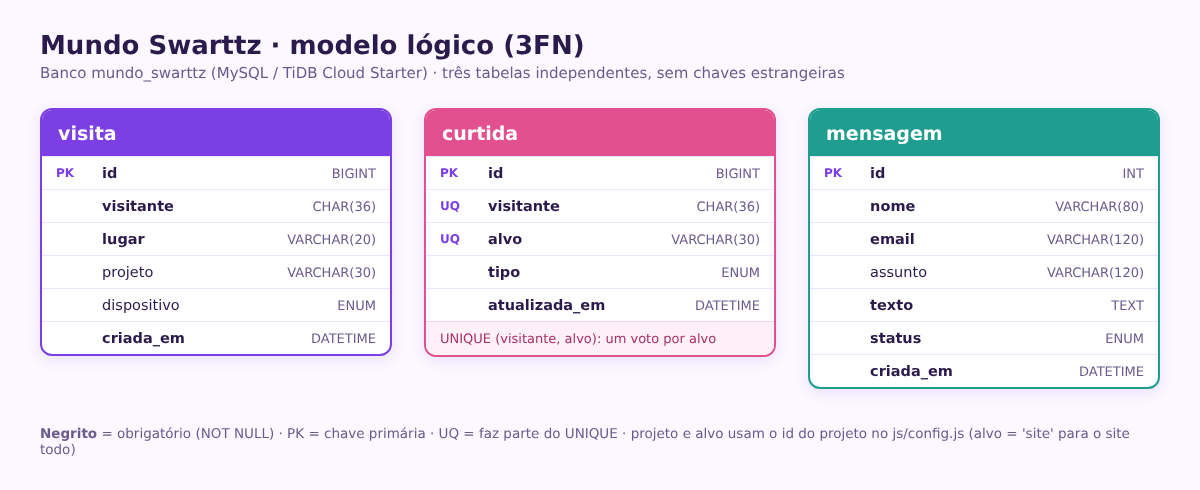
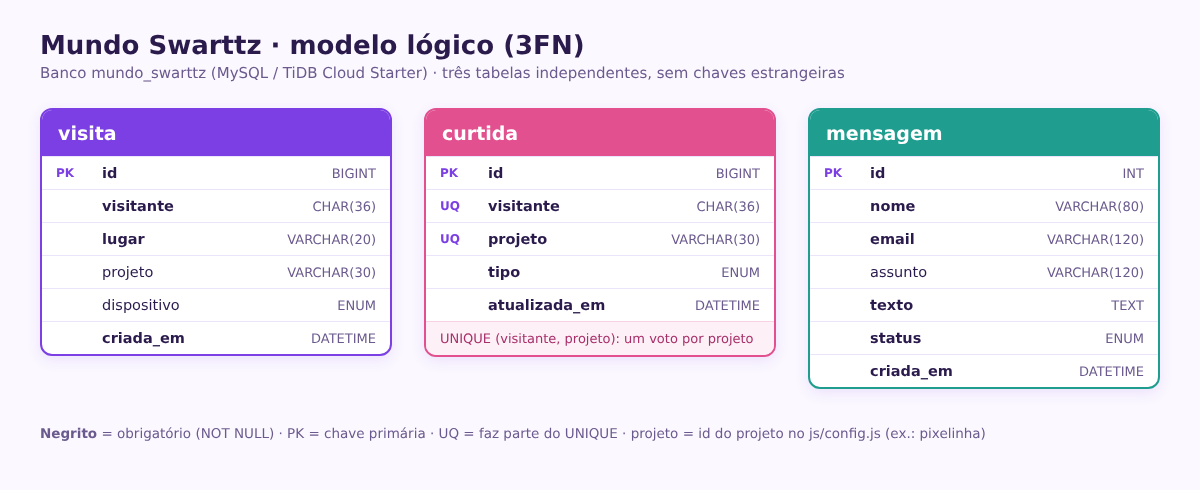
fix: keep likes on portfolio projects only
Drops the site-wide vote: curtida.alvo becomes curtida.projeto, with UNIQUE (visitante, projeto).

diff --git a/database/normalizacao.md b/database/normalizacao.md
@@ -14,7 +14,7 @@ O modelo tem três tabelas: `visita`, `curtida` e `mensagem` (detalhe de cada co
 | Tabela | Chave primária | Alguma coluna com lista de valores? |
 |---|---|---|
 | visita | `id` | Não. Cada visita tem um lugar, no máximo um projeto e um dispositivo. |
-| curtida | `id` | Não. Cada voto tem um alvo e um tipo. |
+| curtida | `id` | Não. Cada voto tem um projeto e um tipo. |
 | mensagem | `id` | Não. Cada mensagem tem um remetente, um e-mail e um texto. |
 
 As três tabelas estão na 1FN.
@@ -23,14 +23,14 @@ As três tabelas estão na 1FN.
 
 A 2FN só pode ser violada em tabelas com **chave primária composta**. As três tabelas usam um `id` simples como chave, então nenhuma coluna pode depender "só de um pedaço" dela. As três estão na 2FN.
 
-A regra de um voto por visitante em cada alvo, em `curtida`, é garantida com `UNIQUE (visitante, alvo)`, e não com uma chave primária composta. Assim a tabela mantém o `id` simples, e a regra continua valendo.
+A regra de um voto por visitante em cada projeto, em `curtida`, é garantida com `UNIQUE (visitante, projeto)`, e não com uma chave primária composta. Assim a tabela mantém o `id` simples, e a regra continua valendo.
 
 ## Verificação da 3FN
 
 A pergunta é: alguma coluna depende de outra coluna que não é a chave?
 
 - **visita:** `lugar`, `projeto`, `dispositivo` e `criada_em` descrevem aquela visita. O lugar não determina o projeto (no cinema pode ser qualquer filme), e o visitante não determina o dispositivo (a mesma pessoa pode voltar pelo celular). Nenhuma dependência transitiva.
-- **curtida:** `alvo`, `tipo` e `atualizada_em` descrevem aquele voto. Nenhuma coluna é calculada a partir de outra.
+- **curtida:** `projeto`, `tipo` e `atualizada_em` descrevem aquele voto. Nenhuma coluna é calculada a partir de outra.
 - **mensagem:** `nome`, `email`, `assunto`, `texto` e `status` descrevem aquela mensagem. Pode parecer que `email → nome` (o e-mail "decide" o nome), mas o formulário é aberto: a mesma pessoa pode escrever o nome de jeitos diferentes, ou duas pessoas podem usar o mesmo e-mail. Não há um cadastro de remetentes, e cada mensagem guarda o que foi enviado naquela vez.
 
 As três tabelas estão na 3FN.
@@ -52,13 +52,13 @@ Num modelo anterior, a tabela `curtida` usava `projeto_id` vazio para o voto no 
 
 **Por que era um problema:** `alvo` dependia de `projeto_id`, que não é chave (`id → projeto_id → alvo`): uma dependência transitiva. Era um dado repetido que podia ficar diferente do original.
 
-**Depois:** sobrou só a coluna `alvo`, que é obrigatória e guarda diretamente o que foi votado: o `id` do projeto ou a palavra `site`. Não existe mais coluna calculada, e o `UNIQUE (visitante, alvo)` funciona sem truques.
+**Depois:** o voto passou a ser só nos projetos do portfólio. Sobrou uma coluna `projeto`, obrigatória, com o `id` do projeto votado. Não existe mais coluna calculada nem campo vazio com significado especial, e o `UNIQUE (visitante, projeto)` funciona sem truques.
 
 **Depois:** `curtida`
 
-| id | visitante | alvo | tipo |
+| id | visitante | projeto | tipo |
 |---|---|---|---|
-| 1 | a1b2c3 | site | curtir |
+| 1 | a1b2c3 | mundo | curtir |
 | 2 | a1b2c3 | pixelinha | curtir |
 
 ### Simplificação: o conteúdo saiu do banco

diff --git a/database/README.md b/database/README.md
@@ -24,20 +24,20 @@ O banco usa `utf8mb4_unicode_ci` para aceitar acentos e emojis nas mensagens. To
 | Tabela | O que guarda |
 |---|---|
 | `visita` | Cada lugar aberto no mundo 3D, e qual projeto no cinema (contador de visitas) |
-| `curtida` | O voto de cada visitante em cada projeto ou no site todo |
+| `curtida` | O voto de cada visitante em cada projeto do portfólio |
 | `mensagem` | As mensagens do formulário de contato |
 
 As tabelas são independentes, sem chaves estrangeiras. Os projetos são identificados pelo `id` que têm no `js/config.js` (ex.: `pixelinha`), e a API confere esse `id` antes de gravar.
 
-## Teste de integridade: um voto por alvo
-A regra `UNIQUE (visitante, alvo)` da tabela `curtida` garante que o mesmo navegador não vote duas vezes no mesmo projeto. `teste_integridade.sql` faz três coisas:
+## Teste de integridade: um voto por projeto
+A regra `UNIQUE (visitante, projeto)` da tabela `curtida` garante que o mesmo navegador não vote duas vezes no mesmo projeto. `teste_integridade.sql` faz três coisas:
 
 1. Grava uma curtida no projeto `pixelinha`. **O MySQL aceita.**
 2. Troca o voto para descurtida com `INSERT ... ON DUPLICATE KEY UPDATE`, que é o jeito que a API grava os votos. A tabela continua com **uma linha só**.
 3. Tenta gravar um **segundo** voto do mesmo visitante no mesmo projeto:
 
 ```sql
-INSERT INTO curtida (visitante, alvo, tipo)
+INSERT INTO curtida (visitante, projeto, tipo)
 VALUES ('a1b2c3d4-0000-4000-8000-000000000001', 'pixelinha', 'curtir');
 ```
 
@@ -45,9 +45,9 @@ VALUES ('a1b2c3d4-0000-4000-8000-000000000001', 'pixelinha', 'curtir');
 
 ```
 #1062 - Duplicate entry 'a1b2c3d4-0000-4000-8000-000000000001-pixelinha'
-for key 'uq_curtida_visitante_alvo'
+for key 'uq_curtida_visitante_projeto'
 ```
 
-O erro quer dizer: já existe uma linha com esse mesmo par (visitante, alvo). Assim o banco nunca guarda dois votos da mesma pessoa no mesmo projeto, e a contagem de curtidas não pode ser inflada.
+O erro quer dizer: já existe uma linha com esse mesmo par (visitante, projeto). Assim o banco nunca guarda dois votos da mesma pessoa no mesmo projeto, e a contagem de curtidas não pode ser inflada.
 
 Se esse `INSERT` for **aceito**, há um problema: o `UNIQUE` não foi criado.

diff --git a/database/dicionario_dados.md b/database/dicionario_dados.md
@@ -13,8 +13,8 @@ Modelo normalizado até a 3FN (veja `normalizacao.md`). Banco: MySQL (TiDB Cloud
 | visita | dispositivo | `ENUM('celular','computador','tablet')` | — | não | — | Tipo de tela |
 | visita | criada_em | `DATETIME` | — | sim | `DEFAULT CURRENT_TIMESTAMP` | Quando |
 | curtida | id | `BIGINT` | PK | sim | `AUTO_INCREMENT` | Identificador do voto |
-| curtida | visitante | `CHAR(36)` | — | sim | `UNIQUE (visitante, alvo)` | Código do navegador; um voto por alvo |
-| curtida | alvo | `VARCHAR(30)` | — | sim | `UNIQUE (visitante, alvo)` | `id` do projeto votado (ex.: pixelinha) ou `site`, para o site todo |
+| curtida | visitante | `CHAR(36)` | — | sim | `UNIQUE (visitante, projeto)` | Código do navegador; um voto por projeto |
+| curtida | projeto | `VARCHAR(30)` | — | sim | `UNIQUE (visitante, projeto)` | `id` do projeto votado (ex.: pixelinha) |
 | curtida | tipo | `ENUM('curtir','descurtir')` | — | sim | — | O voto |
 | curtida | atualizada_em | `DATETIME` | — | sim | `DEFAULT CURRENT_TIMESTAMP ON UPDATE CURRENT_TIMESTAMP` | Quando votou ou trocou o voto |
 | mensagem | id | `INT` | PK | sim | `AUTO_INCREMENT` | Identificador da mensagem |
@@ -30,15 +30,14 @@ Modelo normalizado até a 3FN (veja `normalizacao.md`). Banco: MySQL (TiDB Cloud
 | Tabela | Descrição |
 |---|---|
 | visita | Cada lugar aberto no mundo 3D (contador de visitas). |
-| curtida | Voto de cada visitante em cada projeto e no site todo. |
+| curtida | Voto de cada visitante em cada projeto do portfólio. |
 | mensagem | Mensagens do formulário de contato. |
 
-## Valores aceitos em `lugar`, `projeto` e `alvo`
+## Valores aceitos em `lugar` e `projeto`
 
 Esses valores são os `id` usados no `js/config.js` e no `js/zones.js`. A API recusa qualquer outro.
 
 | Coluna | Valores |
 |---|---|
 | `visita.lugar` | `chegada`, `sobre`, `biblioteca`, `cinema`, `telefone`, `cartas`, `atelie` |
-| `visita.projeto` e `curtida.alvo` | os `id` da lista `films` do `config.js` (hoje: `mundo`, `jc`, `pixelinha`, `preco`, `painel`) |
-| `curtida.alvo` (site todo) | `site` |
+| `visita.projeto` e `curtida.projeto` | os `id` da lista `films` do `config.js` (hoje: `mundo`, `jc`, `pixelinha`, `preco`, `painel`) |

diff --git a/database/visao_geral.md b/database/visao_geral.md
@@ -11,7 +11,7 @@ Os arquivos desta pasta (dicionário de dados e scripts SQL) estão listados no 
 | Entidade | O que guarda |
 |---|---|
 | **visita** | Cada lugar aberto no mundo 3D (e qual projeto, no cinema), para o contador de visitas |
-| **curtida** | As curtidas e descurtidas de cada projeto e do site todo |
+| **curtida** | As curtidas e descurtidas de cada projeto do portfólio |
 | **mensagem** | As mensagens do formulário de contato |
 
 ## Relacionamentos
